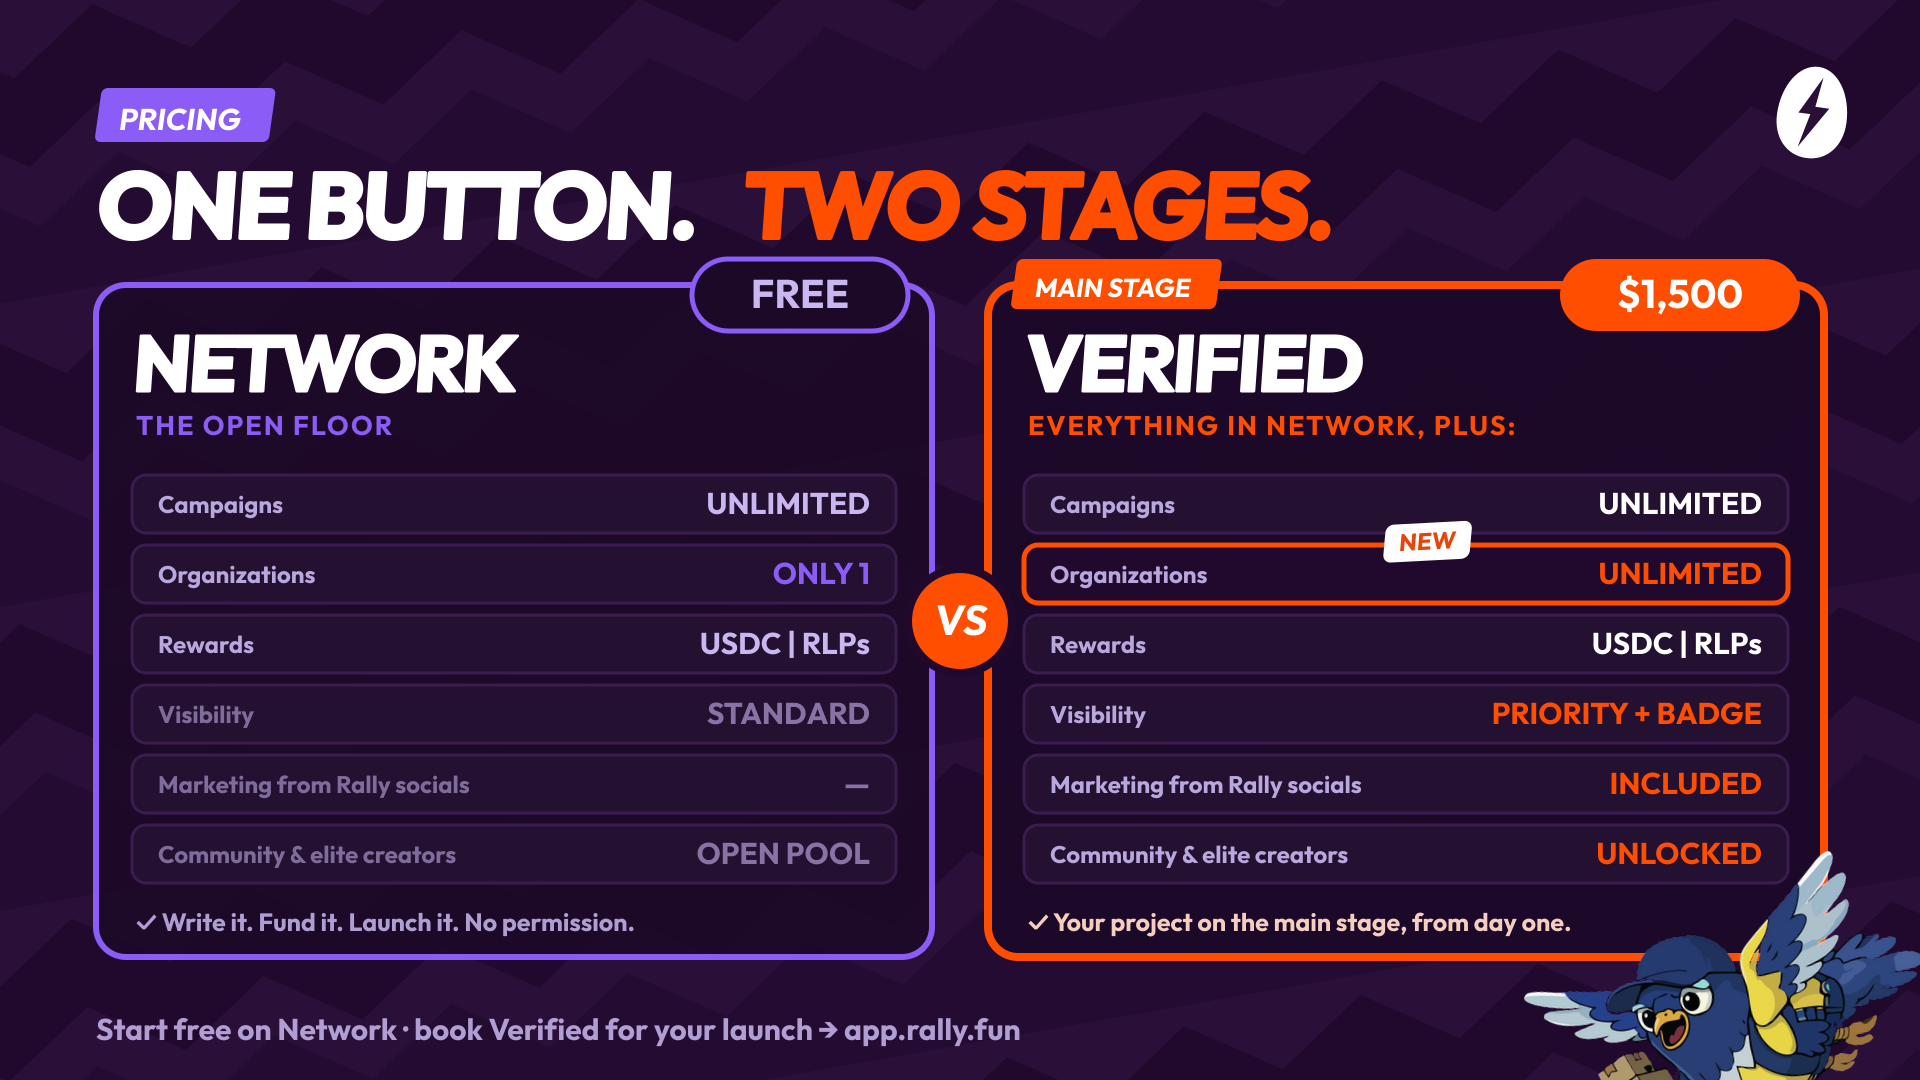
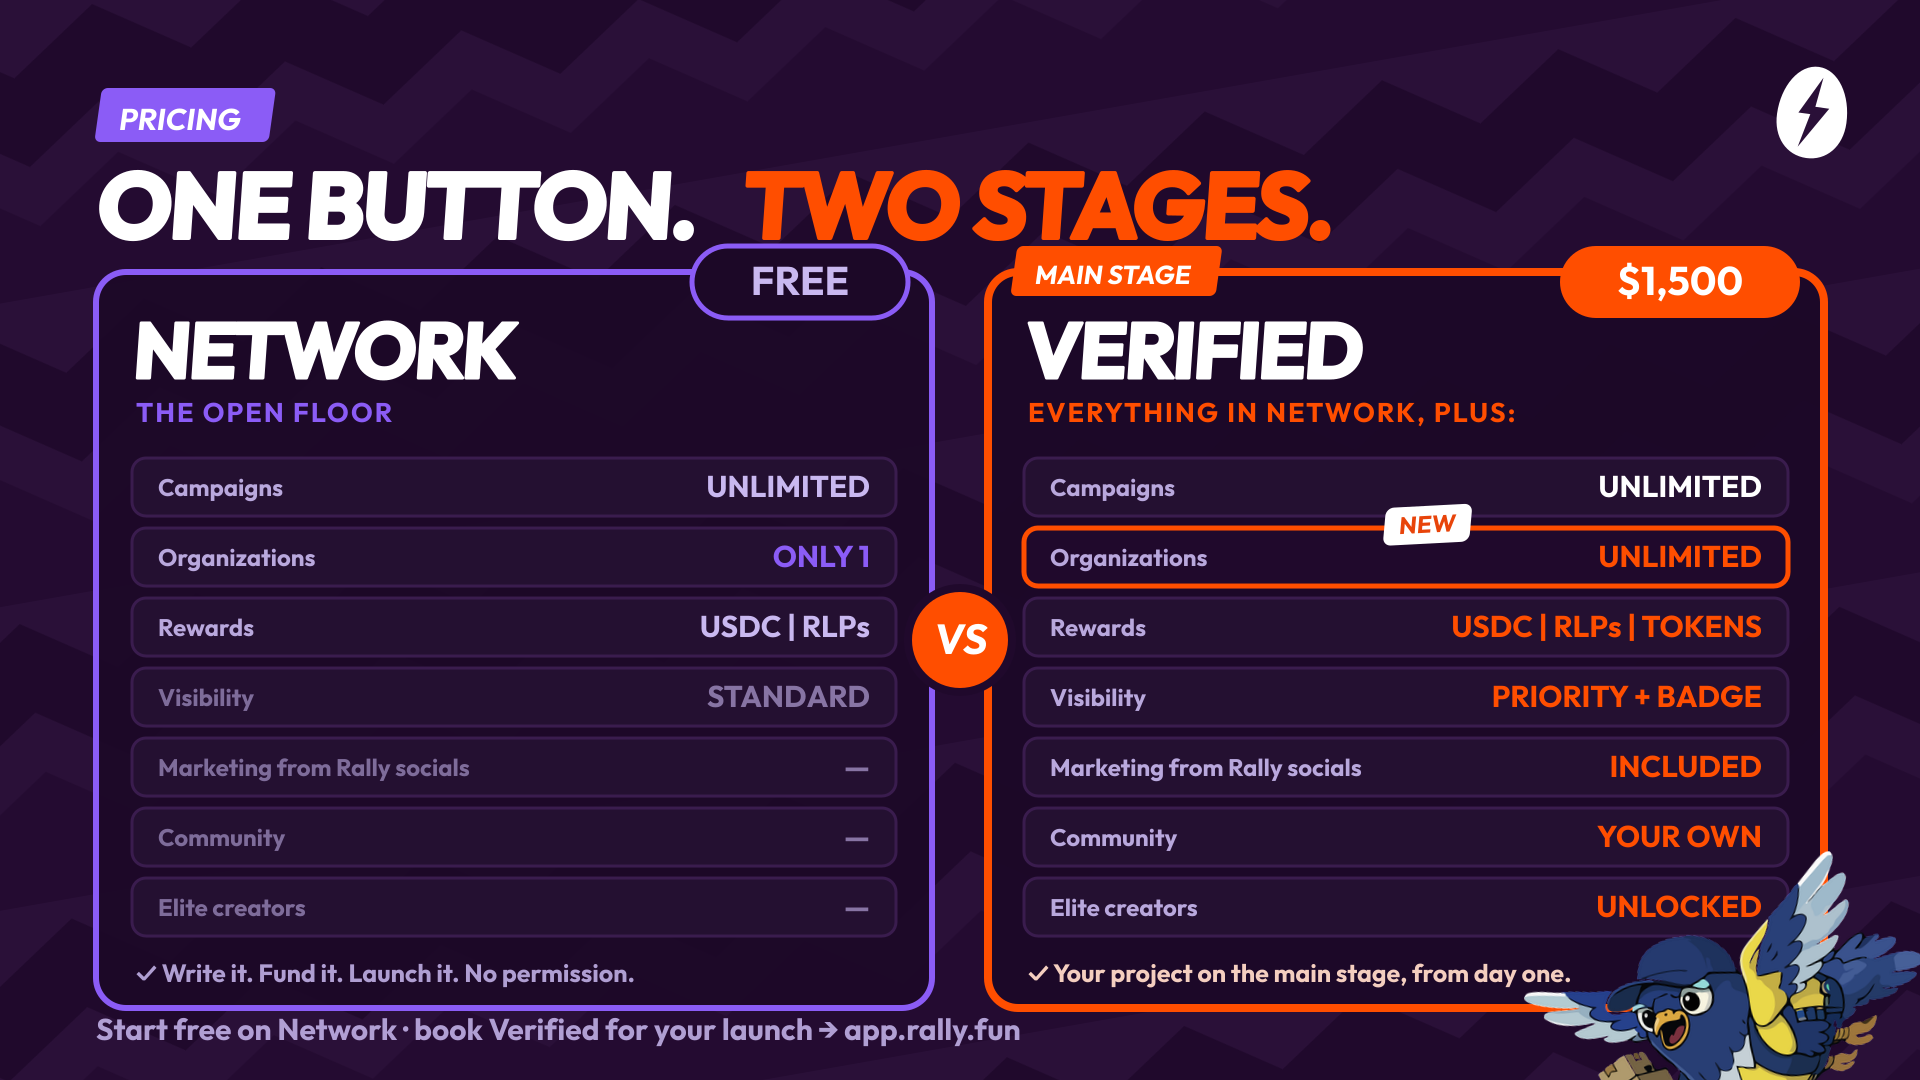
Pricing design: split Community and Elite creators rows, add token rewards to Verified
Claude-Session: https://claude.ai/code/session_01HeCjF7fsjCUn5ySBJ1uikn

Changed region(s): [[0.0312, 0.2139, 0.9375, 0.9472], [0.8125, 0.2139, 0.9688, 0.3056]]

diff --git a/marketing/scripts/assets_pricing.js b/marketing/scripts/assets_pricing.js
@@ -60,9 +60,9 @@ function row(x, y, w, label, value, valueC, opts = {}) {
 
 (async () => {
   const W = 1920, H = 1080;
-  const cardY = 285, cardH = 672, cardW = 836;
+  const cardY = 272, cardH = 736, cardW = 836;
   const x1 = 96, x2 = 988;
-  const rowsY = cardY + 190, rowGap = 70, rowW = cardW - 72;
+  const rowsY = cardY + 186, rowGap = 70, rowW = cardW - 72;
 
   const svg = `${zigzag(W, H)}
   ${badge(96, 130, "PRICING", PURPLE, WHITE, 30)}
@@ -80,7 +80,8 @@ function row(x, y, w, label, value, valueC, opts = {}) {
   ${row(x1 + 36, rowsY + 2 * rowGap, rowW, "Rewards", "USDC | RLPs", LAV)}
   ${row(x1 + 36, rowsY + 3 * rowGap, rowW, "Visibility", "STANDARD", LAV, { dim: true })}
   ${row(x1 + 36, rowsY + 4 * rowGap, rowW, "Marketing from Rally socials", "—", LAV, { dim: true })}
-  ${row(x1 + 36, rowsY + 5 * rowGap, rowW, "Community & elite creators", "OPEN POOL", LAV, { dim: true })}
+  ${row(x1 + 36, rowsY + 5 * rowGap, rowW, "Community", "—", LAV, { dim: true })}
+  ${row(x1 + 36, rowsY + 6 * rowGap, rowW, "Elite creators", "—", LAV, { dim: true })}
   <text x="${x1 + 40}" y="${cardY + cardH - 26}" ${FB} font-size="25" fill="${LAV}" fill-opacity="0.85">✓  Write it. Fund it. Launch it. No permission.</text>
 
   <!-- ── VERIFIED ────────────────────────────────────── -->
@@ -92,10 +93,11 @@ function row(x, y, w, label, value, valueC, opts = {}) {
   <text x="${x2 + 40}" y="${cardY + 150}" ${FB} font-size="27" fill="${ORANGE}" letter-spacing="2">EVERYTHING IN NETWORK, PLUS:</text>
   ${row(x2 + 36, rowsY + 0 * rowGap, rowW, "Campaigns", "UNLIMITED", WHITE)}
   ${row(x2 + 36, rowsY + 1 * rowGap, rowW, "Organizations", "UNLIMITED", ORANGE, { star: true })}
-  ${row(x2 + 36, rowsY + 2 * rowGap, rowW, "Rewards", "USDC | RLPs", WHITE)}
+  ${row(x2 + 36, rowsY + 2 * rowGap, rowW, "Rewards", "USDC | RLPs | TOKENS", ORANGE)}
   ${row(x2 + 36, rowsY + 3 * rowGap, rowW, "Visibility", "PRIORITY + BADGE", ORANGE)}
   ${row(x2 + 36, rowsY + 4 * rowGap, rowW, "Marketing from Rally socials", "INCLUDED", ORANGE)}
-  ${row(x2 + 36, rowsY + 5 * rowGap, rowW, "Community & elite creators", "UNLOCKED", ORANGE)}
+  ${row(x2 + 36, rowsY + 5 * rowGap, rowW, "Community", "YOUR OWN", ORANGE)}
+  ${row(x2 + 36, rowsY + 6 * rowGap, rowW, "Elite creators", "UNLOCKED", ORANGE)}
   <text x="${x2 + 40}" y="${cardY + cardH - 26}" ${FB} font-size="25" fill="#FFD9C7" fill-opacity="0.95">✓  Your project on the main stage, from day one.</text>
 
   <!-- VS chip between cards -->
